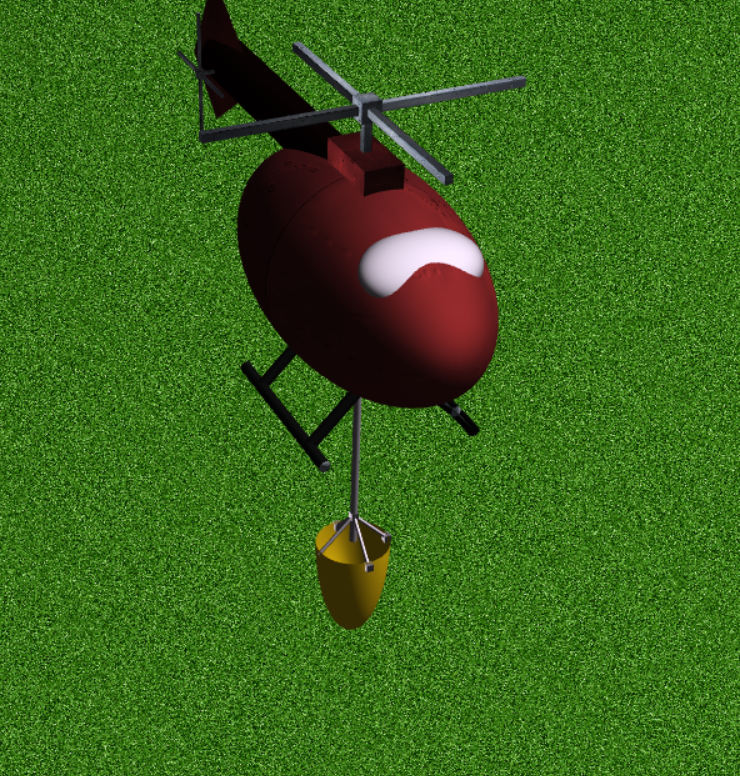
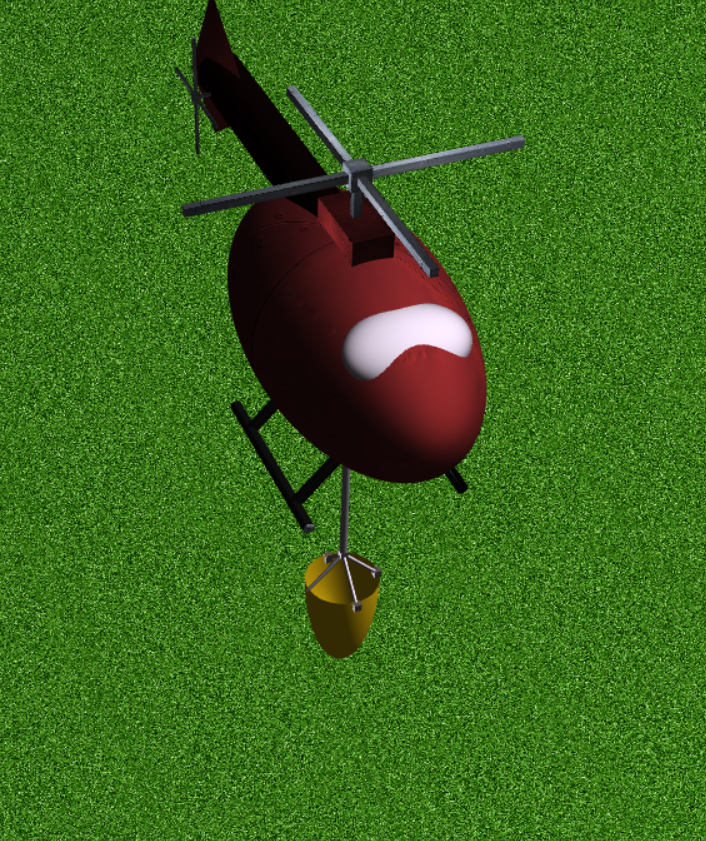
Improved Heli

diff --git a/project/MyHeli.js b/project/MyHeli.js
@@ -19,7 +19,7 @@ export class MyHeli extends CGFobject {
         this.sphere = new MySphere(this.scene, 80, 80, false);
         this.cube = new MyUnitCubeQuad(this.scene);
         this.cylinder = new MyCylinder(this.scene, 90, 1); 
-        this.pyramid = new MyPyramid(this.scene, 4, 1, 1, 0, false);
+        this.pyramid = new MyPyramid(this.scene, 4, 1,1, 1, 0, false);
         this.helice = new MyHelice(this.scene);
         this.landingGear = new MyLandingGear(this.scene);
         this.bucket = new MyBucket(this.scene, 3,2);
@@ -126,7 +126,7 @@ export class MyHeli extends CGFobject {
         //bucket cable
         this.scene.pushMatrix();
         this.scene.rotate(Math.PI * (-90) / 180, 1, 0, 0);
-        this.scene.scale(0.1,0.1,8);
+        this.scene.scale(0.1,0.1,7.3);
         this.cylinder.display();
         this.scene.popMatrix();
 
